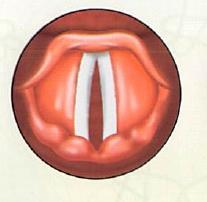
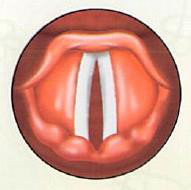
new diagram-small class

diff --git a/src/components/hamzah.jsx b/src/components/hamzah.jsx
@@ -39,13 +39,13 @@ export default function Hamzah() {
               <img className="d-block mx-auto articulation-point" src= "/assets/diagrams/hamzah.jpg" />
             </Carousel.Item>
             <Carousel.Item>
-              <img className="d-block mx-auto" src= "/assets/images/4.jpeg" />
+              <img className="d-block mx-auto diagram-small" src= "/assets/images/4.jpeg" />
               <Carousel.Caption>
                 <p>When <span className="arabic">ه</span> is sakinah, the vocal chords are partially open</p>
               </Carousel.Caption>
             </Carousel.Item>
             <Carousel.Item>
-              <img className="d-block mx-auto" src="/assets/images/3.jpeg" />
+              <img className="d-block mx-auto diagram-small" src="/assets/images/3.jpeg" />
               <Carousel.Caption>
                 <p>When <span className="arabic">ء</span> and <span className="arabic">ه</span> are mutharrikah, vocal chords are all open</p>
               </Carousel.Caption>

diff --git a/src/components/small-haa.jsx b/src/components/small-haa.jsx
@@ -40,13 +40,13 @@ export default function SmallHaa() {
               <img className="d-block mx-auto articulation-point" src="/assets/diagrams/small-haa.jpg" />
             </Carousel.Item>
             <Carousel.Item>
-              <img className="d-block mx-auto" src="/assets/images/2.jpeg"/>
+              <img className="d-block mx-auto diagram-small" src="/assets/images/2.jpeg"/>
               <Carousel.Caption>
                 <p>When <span className="arabic">ء</span> is sakinah, the vocal chords are closed</p>
               </Carousel.Caption>
             </Carousel.Item>
             <Carousel.Item>
-              <img className="d-block mx-auto" src="/assets/images/3.jpeg" />
+              <img className="d-block mx-auto diagram-small" src="/assets/images/3.jpeg" />
               <Carousel.Caption>
                 <p>When <span className="arabic">ء</span> and <span className="arabic">ه</span> are mutharrikah, vocal chords are all open</p>
               </Carousel.Caption>

diff --git a/src/components/waw.jsx b/src/components/waw.jsx
@@ -42,7 +42,7 @@ export default function Waw() {
               <img className="d-block mx-auto articulation-point" src="/assets/diagrams/waw.png" />
             </Carousel.Item>
             <Carousel.Item>
-              <img className="d-block mx-auto" src="/assets/images/31.jpeg" />
+              <img className="d-block mx-auto diagram-small" src="/assets/images/31.jpeg" />
             </Carousel.Item>
           </Carousel>
         </Accordion.Body>

diff --git a/src/styles/styles.css b/src/styles/styles.css
@@ -159,6 +159,9 @@ h1 .arabic {
 .accordion-body img {
   width: 75vw
 }
+.accordion-body .diagram-small {
+  width: 37.5vw
+}
 .accordion-body .articulation-point {
   width: 75vw;
   height: 50vh
@@ -170,6 +173,9 @@ hr {
 @media (min-width: 481px) { 
   .accordion-body img {
     width: 375px
+  }
+  .accordion-body .diagram-small {
+    width: 187.5px
   }
   .accordion-body .articulation-point {
     width: 375px;
